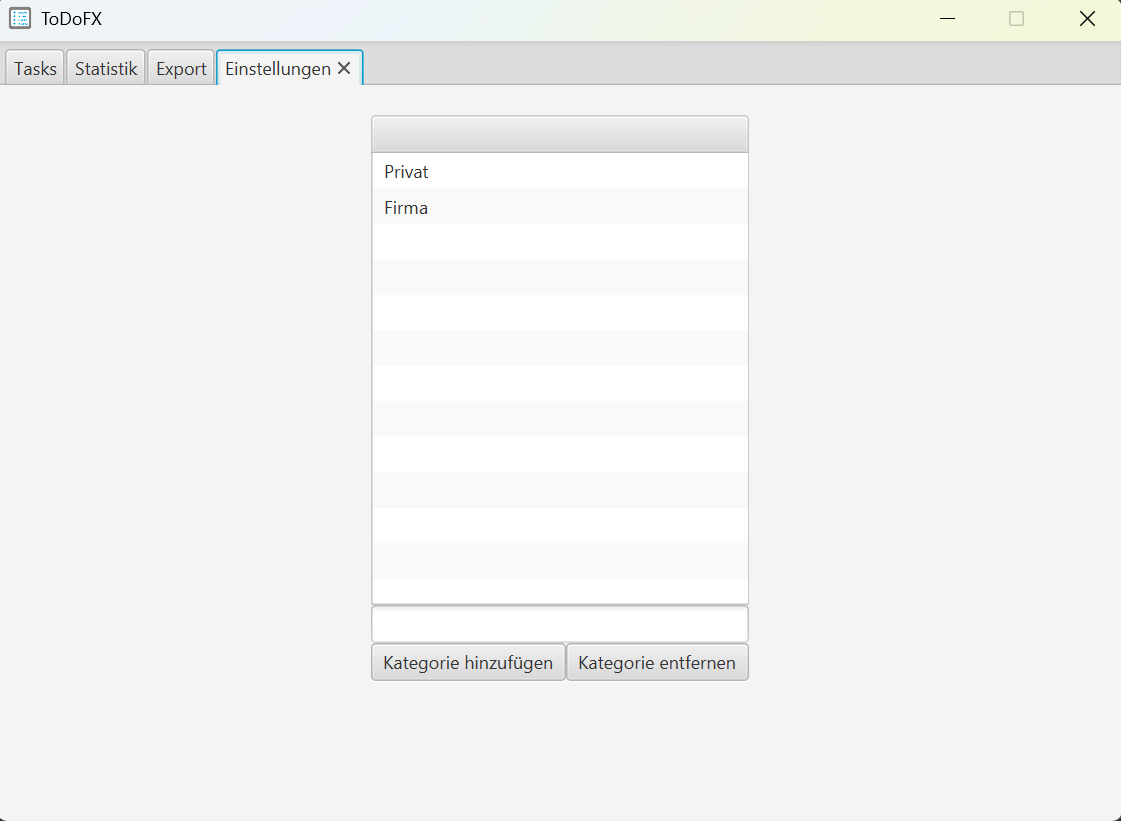
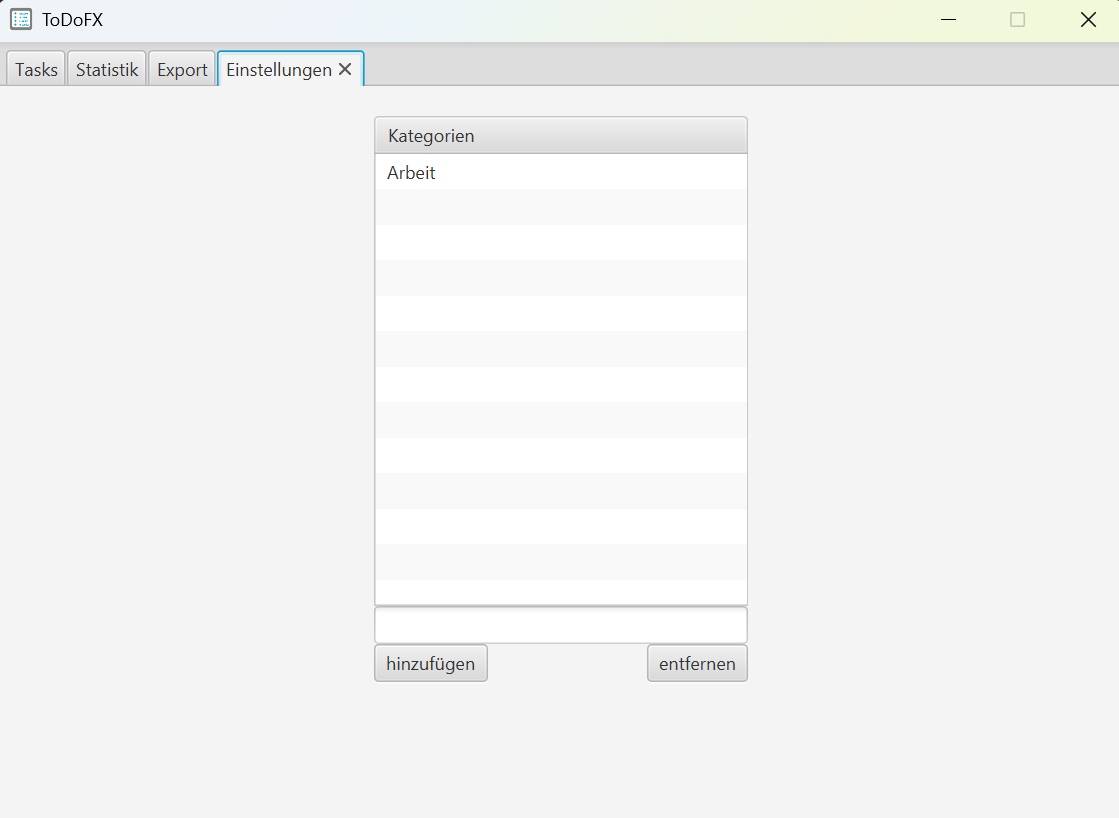
#25 categories can now be saved in the database

Changed region(s): [[0.3342, 0.7335, 0.6685, 0.8557], [0.0, 0.0, 0.3342, 0.1222], [0.3342, 0.1528, 0.4254, 0.2751]]

diff --git a/src/main/kotlin/com/github/ursteiner/todofx/controller/SettingsController.kt b/src/main/kotlin/com/github/ursteiner/todofx/controller/SettingsController.kt
@@ -1,6 +1,7 @@
 package com.github.ursteiner.todofx.controller
 
 import com.github.ursteiner.todofx.constants.TranslationKeys
+import com.github.ursteiner.todofx.model.Category
 import javafx.beans.property.ListProperty
 import javafx.beans.property.SimpleListProperty
 import javafx.collections.FXCollections
@@ -9,11 +10,15 @@ import javafx.fxml.FXML
 import javafx.scene.control.Button
 import javafx.scene.control.ListView
 import javafx.scene.control.TextField
+import javafx.scene.control.TitledPane
 import java.net.URL
 import java.util.*
 
 
 class SettingsController: CommonController() {
+
+    @FXML
+    private lateinit var categoriesTitledPane: TitledPane
 
     @FXML
     private lateinit var categoriesListView: ListView<String>
@@ -27,38 +32,50 @@ class SettingsController: CommonController() {
     @FXML
     private lateinit var deleteCategoryButton: Button
 
-    var listProperty: ListProperty<String> = SimpleListProperty()
-    private lateinit var categories: ObservableList<String>
+    private var listProperty: ListProperty<String> = SimpleListProperty()
+    private lateinit var categoriesObservable: ObservableList<String>
+    private val categories = mutableListOf<Category>()
 
     override fun initialize(p0: URL?, p1: ResourceBundle?) {
+        categoriesTitledPane.text = getTranslation(TranslationKeys.CATEGORIES)
+
         addCategoryButton.text = getTranslation(TranslationKeys.ADD_CATEGORY)
         deleteCategoryButton.text = getTranslation(TranslationKeys.DELETE_CATEGORY)
 
-        //TODO replace static category List with entries from database
-        categories = FXCollections.observableArrayList()
-        categories.add("Privat")
-        categories.add("Firma")
+        initCategories()
 
         categoriesListView.itemsProperty().bind(listProperty)
-        listProperty.set(categories)
+        listProperty.set(categoriesObservable)
     }
 
     @FXML
     fun onAddCategoryButtonClick(){
         if(categoryTextField.text != ""){
-            categories.add(categoryTextField.text)
+            categoriesObservable.add(categoryTextField.text)
+            getDatabase().addCategory(Category(categoryTextField.text, 0))
+            initCategories()
             categoriesListView.refresh()
-
             categoryTextField.text = ""
         }
     }
 
     @FXML
     fun onDeleteCategoryButtonClick(){
+        val selectedCategory = categoriesListView.selectionModel.selectedItem
         if(categoriesListView.selectionModel.selectedItem == null){
             return
         }
 
-        categories.remove(categoriesListView.selectionModel.selectedItem)
+        categories.filter { it.name == selectedCategory }.forEach { getDatabase().deleteCategory(it.id) }
+        initCategories()
+    }
+
+    fun initCategories(){
+        categories.clear()
+        categories.addAll(getDatabase().getCategories())
+        categoriesObservable = FXCollections.observableArrayList()
+        categories.forEach {
+            categoriesObservable.add(it.name)
+        }
     }
 }

diff --git a/src/main/kotlin/com/github/ursteiner/todofx/service/DatabaseServiceImpl.kt b/src/main/kotlin/com/github/ursteiner/todofx/service/DatabaseServiceImpl.kt
@@ -1,5 +1,6 @@
 package com.github.ursteiner.todofx.service
 
+import com.github.ursteiner.todofx.model.Category
 import com.github.ursteiner.todofx.model.Task
 import org.jetbrains.exposed.sql.*
 import org.jetbrains.exposed.sql.SqlExpressionBuilder.eq
@@ -20,6 +21,7 @@ class DatabaseServiceImpl : DatabaseService {
         transaction {
             addLogger(StdOutSqlLogger)
             SchemaUtils.create(Tasks)
+            SchemaUtils.create(Categories)
             //SchemaUtils.createMissingTablesAndColumns(Tasks)
         }
     }
@@ -43,6 +45,13 @@ class DatabaseServiceImpl : DatabaseService {
         var resolvedDate: Column<String?> = varchar("resolvedDate", length = 30).nullable()
 
         override val primaryKey = PrimaryKey(id, name = "PK_Task_ID")
+    }
+
+    object Categories : Table() {
+        val id: Column<Int> = integer("id").autoIncrement()
+        val name: Column<String> = varchar("name", length = 100)
+
+        override val primaryKey = PrimaryKey(id, name = "PK_Category_ID")
     }
 
     override fun addTask(newTask: Task) = transaction {
@@ -157,6 +166,42 @@ class DatabaseServiceImpl : DatabaseService {
         }
 
         return resultMap
+    }
+
+    override fun getCategories(): MutableList<Category> {
+        logger.info("Get Categories")
+        val categories = mutableListOf<Category>()
+
+        transaction {
+            addLogger(StdOutSqlLogger)
+            val databaseCategories = Categories.selectAll()
+
+            databaseCategories.forEach {
+                categories.add(Category(it[Categories.name], it[Categories.id]))
+            }
+        }
+        return categories
+    }
+
+    override fun addCategory(category: Category) = transaction {
+        logger.info("Category added: ${category.name}")
+        addLogger(StdOutSqlLogger)
+        val categoryId = Categories.insert {
+            it[name] = category.name
+        } get Categories.id
+
+        category.id = categoryId
+    }
+
+    override fun deleteCategory(categoryId: Int): Int {
+        logger.info("Delete category: $categoryId")
+        var deletedCategories = 0
+
+        transaction {
+            addLogger(StdOutSqlLogger)
+            deletedCategories = Categories.deleteWhere { Categories.id eq categoryId }
+        }
+        return deletedCategories
     }
 
     private fun getYearMonth(beforeXMonths: Int): String{

diff --git a/src/test/kotlin/com/github/ursteiner/todofx/service/DatabaseServiceImplTest.kt b/src/test/kotlin/com/github/ursteiner/todofx/service/DatabaseServiceImplTest.kt
@@ -1,5 +1,6 @@
 package com.github.ursteiner.todofx.service
 
+import com.github.ursteiner.todofx.model.Category
 import com.github.ursteiner.todofx.model.Task
 import org.junit.jupiter.api.Assertions
 import org.junit.jupiter.api.BeforeEach
@@ -17,6 +18,11 @@ class DatabaseServiceImplTest {
         testCandidate.getTasks().forEach {
             testCandidate.deleteTask(it.getIdProperty())
             println("Deleted task: ${it.getIdProperty()}")
+        }
+
+        testCandidate.getCategories().forEach {
+            testCandidate.deleteCategory(it.id)
+            println("Deleted category: ${it.id}")
         }
     }
 
@@ -126,5 +132,29 @@ class DatabaseServiceImplTest {
         val databaseResult = testCandidate.getTasksPerMonth(1)
         Assertions.assertEquals(1, databaseResult.size, "There should be one entry in the map")
         Assertions.assertEquals(true, databaseResult.contains(currentYearMonth))
+    }
+
+    @Test
+    fun testAddCategory(){
+        val testCategory = Category("privat", 0)
+        testCandidate.addCategory(testCategory)
+        val categories = testCandidate.getCategories()
+
+        Assertions.assertEquals(testCategory.name, categories[0].name, "The category name should match")
+    }
+
+    @Test
+    fun testGetCategories(){
+        val amountOfCategories = testCandidate.getCategories()
+        Assertions.assertEquals(0, amountOfCategories.size, "There should be 0 categories")
+    }
+
+    @Test
+    fun testDeleteCategory(){
+        val testCategory = Category("privat", 0)
+        testCandidate.addCategory(testCategory)
+        val deletedCategories = testCandidate.deleteCategory(testCategory.id)
+
+        Assertions.assertEquals(1, deletedCategories, "1 Category should have been deleted")
     }
 }

diff --git a/src/main/kotlin/com/github/ursteiner/todofx/service/DatabaseService.kt b/src/main/kotlin/com/github/ursteiner/todofx/service/DatabaseService.kt
@@ -1,5 +1,6 @@
 package com.github.ursteiner.todofx.service
 
+import com.github.ursteiner.todofx.model.Category
 import com.github.ursteiner.todofx.model.Task
 
 interface DatabaseService {
@@ -13,4 +14,8 @@ interface DatabaseService {
     fun getAmountOfResolvedTasks(): Long
     fun getAmountOfOpenTasks(): Long
     fun getTasksPerMonth(lastXMonths: Int): MutableMap<String, Int>
+
+    fun getCategories(): MutableList<Category>
+    fun addCategory(category: Category)
+    fun deleteCategory(categoryId: Int): Int
 }

diff --git a/src/main/kotlin/com/github/ursteiner/todofx/constants/TranslationKeys.kt b/src/main/kotlin/com/github/ursteiner/todofx/constants/TranslationKeys.kt
@@ -29,5 +29,6 @@ enum class TranslationKeys() {
     SAVE_EXPORTED_FILE,
     ADD_CATEGORY,
     DELETE_CATEGORY,
-    SETTINGS
+    SETTINGS,
+    CATEGORIES
 }

diff --git a/src/main/kotlin/com/github/ursteiner/todofx/model/Category.kt b/src/main/kotlin/com/github/ursteiner/todofx/model/Category.kt
@@ -1,0 +1,3 @@
+package com.github.ursteiner.todofx.model
+
+data class Category(val name: String, var id: Int)
